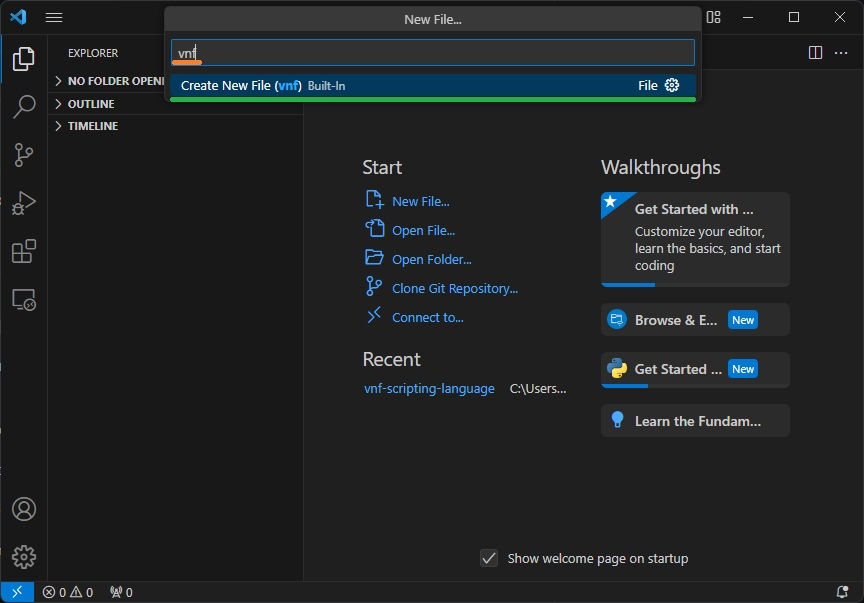
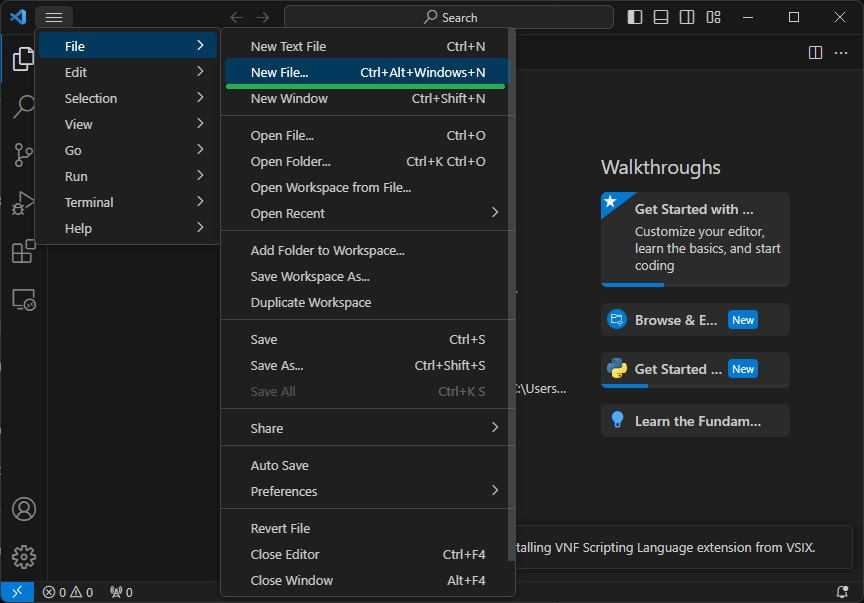
md and renaming

diff --git a/README.md b/README.md
@@ -13,6 +13,7 @@ This extension enables syntax highlighting for VNF scripting laguage files.
     Select `Install from VSIX` from the dropdown menu. This will open a file dialog.
 
 ![Step 2 Part A](images/2a.jpg)
+<space>
 ![Step 2 Part B](images/2b.jpg)
 
 3. In the file dialog, navigate to the location where your .vsix file is saved. Select the file and click Open.
@@ -24,9 +25,17 @@ This extension enables syntax highlighting for VNF scripting laguage files.
 ![Step 4](images/4.jpg)
 
 5. Once the installation is complete, you may be prompted to reload Visual Studio Code to enable the newly installed extension. Click Reload Now if prompted.
+
 6. Click on **File** - **New File**.
-7. Click on **Select a language** and type in`VNF`.
-8. Type out and create novels!
+
+![Step 6](images/6.jpg)
+
+7. Type in`VNF` and select the only available option.
+
+![Step 7](images/7.jpg)
+
+8. [!TIP]
+    Type out and create novels!
 
 ## Known Issues
 
